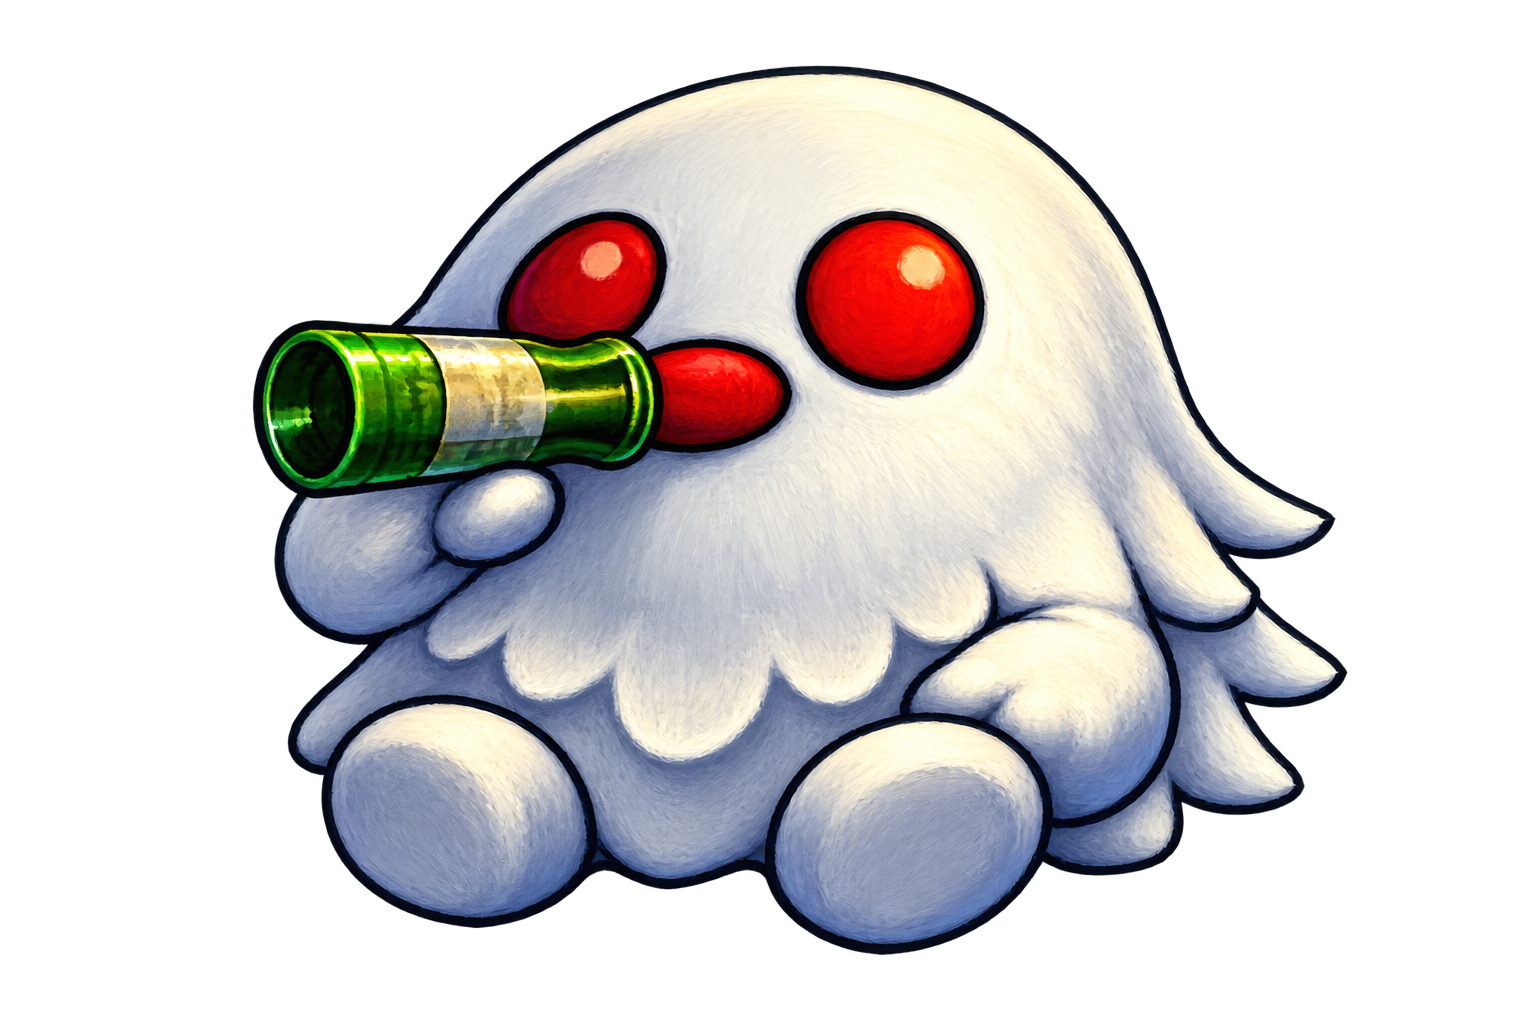
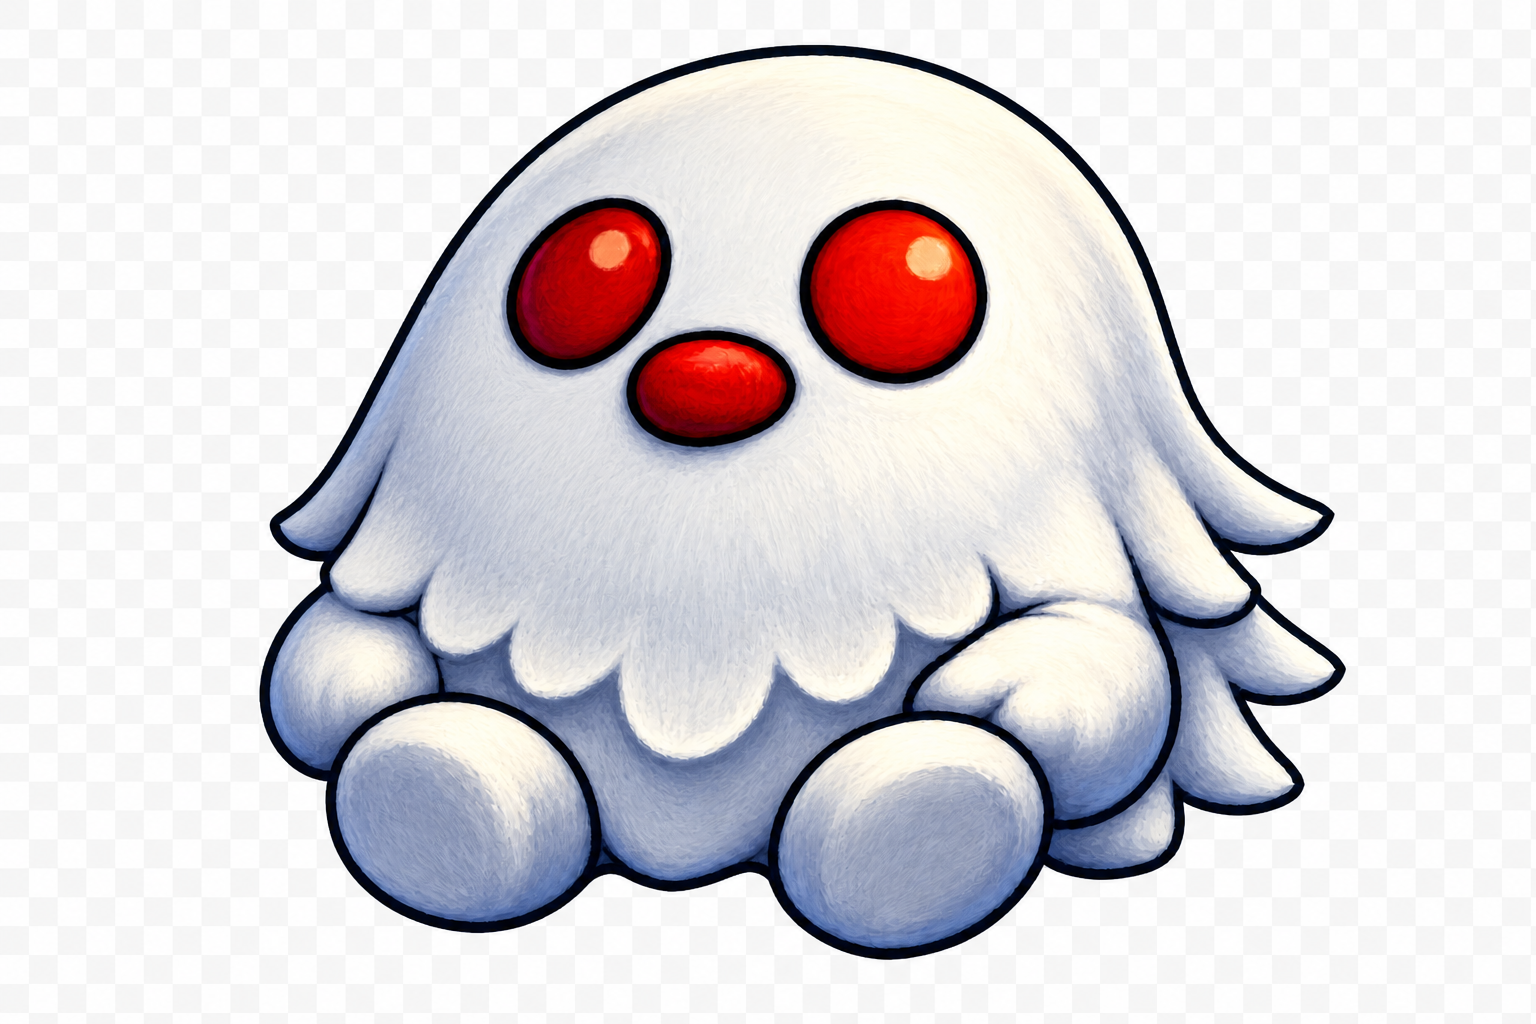
Clean cop sprite backgrounds

diff --git a/src/main/java/alkosmen/Game.java b/src/main/java/alkosmen/Game.java
@@ -29,6 +29,7 @@ import java.awt.image.BufferStrategy;
 import java.awt.image.BufferedImage;
 import java.io.IOException;
 import java.net.URL;
+import java.util.ArrayDeque;
 import java.util.ArrayList;
 import java.util.List;
 import java.util.concurrent.ThreadLocalRandom;
@@ -711,9 +712,58 @@ public final class Game extends Canvas implements Runnable {
         Image[] frames = new Image[COP_WALK_FRAME_COUNT];
         for (int i = 0; i < frames.length; i++) {
             String framePath = String.format("/alkosmen/images/objects/cop/male/%s/%02d.png", trackName, i);
-            frames[i] = loadImageResource(framePath);
+            frames[i] = removeWhiteBackdrop(loadImageResource(framePath));
         }
         return frames;
+    }
+
+    private Image removeWhiteBackdrop(Image source) {
+        int width = source.getWidth(null);
+        int height = source.getHeight(null);
+        BufferedImage cleaned = new BufferedImage(width, height, BufferedImage.TYPE_INT_ARGB);
+        Graphics2D graphics = cleaned.createGraphics();
+        graphics.drawImage(source, 0, 0, null);
+        graphics.dispose();
+
+        boolean[] removed = new boolean[width * height];
+        ArrayDeque<Integer> pending = new ArrayDeque<>();
+        for (int x = 0; x < width; x++) {
+            addWhiteBackgroundPixel(cleaned, x, 0, removed, pending);
+            addWhiteBackgroundPixel(cleaned, x, height - 1, removed, pending);
+        }
+        for (int y = 1; y < height - 1; y++) {
+            addWhiteBackgroundPixel(cleaned, 0, y, removed, pending);
+            addWhiteBackgroundPixel(cleaned, width - 1, y, removed, pending);
+        }
+
+        while (!pending.isEmpty()) {
+            int index = pending.removeFirst();
+            int x = index % width;
+            int y = index / width;
+            cleaned.setRGB(x, y, cleaned.getRGB(x, y) & 0x00FFFFFF);
+            if (x > 0) addWhiteBackgroundPixel(cleaned, x - 1, y, removed, pending);
+            if (x + 1 < width) addWhiteBackgroundPixel(cleaned, x + 1, y, removed, pending);
+            if (y > 0) addWhiteBackgroundPixel(cleaned, x, y - 1, removed, pending);
+            if (y + 1 < height) addWhiteBackgroundPixel(cleaned, x, y + 1, removed, pending);
+        }
+        return cleaned;
+    }
+
+    private void addWhiteBackgroundPixel(BufferedImage image, int x, int y, boolean[] removed, ArrayDeque<Integer> pending) {
+        int index = y * image.getWidth() + x;
+        if (removed[index]) {
+            return;
+        }
+        int color = image.getRGB(x, y);
+        int red = (color >>> 16) & 0xFF;
+        int green = (color >>> 8) & 0xFF;
+        int blue = color & 0xFF;
+        int spread = Math.max(red, Math.max(green, blue)) - Math.min(red, Math.min(green, blue));
+        if (red < 220 || green < 220 || blue < 220 || spread > 18) {
+            return;
+        }
+        removed[index] = true;
+        pending.addLast(index);
     }
 
     private void loadLevel(int level) throws Exception {
